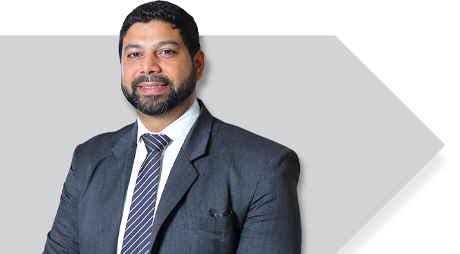
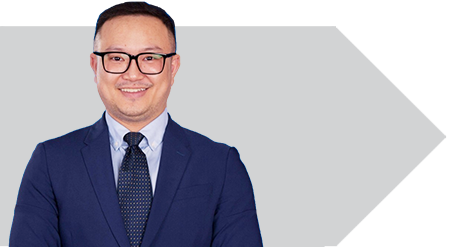
fix 21/3

diff --git a/source/index_vn.html b/source/index_vn.html
@@ -47,7 +47,7 @@
                 <td>&nbsp;</td>
                 <td style="margin: 0px; padding: 0px; font-family: Arial, Helvetica, sans-serif !important; font-size: 14px; line-height: 1.3;"><table width="100%" border="0" cellpadding="0" cellspacing="0" class="chs_body">
                   <tr>
-                    <td style="padding: 0; margin: 0; border: none; line-height: 1.3; font-size: 14px; font-family: Arial, Helvetica, sans-serif !important;"><img src="image/chs_hsbc_logo.png" width="338" height="30" alt="" style="display: block"/></td>
+                    <td style="padding: 0; margin: 0; border: none; line-height: 1.3; font-size: 14px; font-family: Arial, Helvetica, sans-serif !important;"><img src="image/chs_hsbc_logo.png" width="272" height="30" alt="" style="display: block"/></td>
                     <td width="10%" align="right" style="padding: 0; margin: 0; border: none; line-height: 1.3; font-size: 14px; font-family: Arial, Helvetica, sans-serif !important;">&nbsp;</td>
                   </tr>
                 </table></td>
@@ -109,10 +109,10 @@
 										  </table></td>
 								  </tr>
 								  <tr>
-									  <td valign="top" align="center" style="margin: 0; padding: 20px 0; border: none; font-family: Arial, Helvetica, sans-serif !important; font-size: 18px; line-height: 1.3; color: #FFFFFF;">Capital Palace<br />
-29 P. Liễu Giai,<br />
-Ngọc Khánh, Ba Đình,<br />
-Hà Nội</td>
+									  <td valign="top" align="center" style="margin: 0; padding: 20px 0; border: none; font-family: Arial, Helvetica, sans-serif !important; font-size: 18px; line-height: 1.3; color: #FFFFFF;">Khách sạn Lotte Hà Nội<br />
+Số 54, phố Liễu Giai,<br />
+phường Cống Vị,<br />
+quận Ba Đình, Hà Nội</td>
 								  </tr>
 								  <tr>
 									  <td valign="top" align="left" style="margin: 0; padding: 0; border: none; font-family: Arial, Helvetica, sans-serif !important; font-size: 14px; line-height: 1.3;"><table width="100%" border="0" cellspacing="0" cellpadding="0">
@@ -179,10 +179,11 @@ từ đại diện HSBC Premier</td>
 							  <td style="margin: 0; padding: 10px 0 0 0; border: none; font-family: Arial, Helvetica, sans-serif !important; font-size: 14px; line-height: 1.3; color: #000000;"><table width="100%" border="0" cellpadding="0" cellspacing="0" class="chs_body">
 								  <tr>
 									  <td width="250" align="left" style="margin: 0; padding: 0; border: none; font-family: Arial, Helvetica, sans-serif !important; font-size: 14px; line-height: 1.3; color: #000000;"><img src="image/chs_box_4.png" width="230" height="auto" alt="" style="display:block"/></td>
-									  <td style="margin: 0; padding: 0; border: none; font-family: Arial, Helvetica, sans-serif !important; font-size: 16px; line-height: 1.3; color: #FFFFFF;"><strong>Ông Pramoth Rajendran</strong><br />
-Giám đốc khối Dịch vụ<br />
-Quản lý Tài sản và Tài chính<br />
-Cá nhân, HSBC Việt Nam</td>
+									  <td style="margin: 0; padding: 0; border: none; font-family: Arial, Helvetica, sans-serif !important; font-size: 16px; line-height: 1.3; color: #FFFFFF;"><strong>Ông Nguyễn Thái Hoàng</strong><br />
+Giám đốc khu vực miền Bắc,<br />
+khối Dịch vụ Quản lý Tài sản<br />
+và Tài chính Cá nhân,<br />
+HSBC Việt Nam</td>
 								  </tr>
 								  </table></td>
 						  </tr>
@@ -224,13 +225,13 @@ Cá nhân, HSBC Việt Nam</td>
 									  <td width="250" align="left" valign="middle" bgcolor="#FFFFFF" style="margin: 0; padding: 0; border: none; font-family: Arial, Helvetica, sans-serif !important; font-size: 14px; line-height: 1.3; color: #000000;"><img src="image/chs_box_6.png" width="230" height="auto" alt="" style="display:block"/></td>
 									  <td bgcolor="#FFFFFF" valign="middle" style="margin: 0; padding: 0; border: none; font-family: Arial, Helvetica, sans-serif !important; font-size: 16px; line-height: 1.3; color: #000000;"><table width="100%" border="0" cellpadding="0" cellspacing="0" class="chs_body">
 										  <tr>
-											  <td bgcolor="#FFFFFF" valign="middle" style="margin: 0; padding: 0 28px 0 0; border: none; font-family: Arial, Helvetica, sans-serif !important; font-size: 16px; line-height: 1.3; color: #000000;"><strong>Dịch vụ Ngân Hàng Ưu Tiên HSBC Premier kết nối toàn cầu và hoạch định tài chính cho cuộc sống thịnh vượng</strong></td>
+											  <td bgcolor="#FFFFFF" valign="middle" style="margin: 0; padding: 0 28px 0 0; border: none; font-family: Arial, Helvetica, sans-serif !important; font-size: 16px; line-height: 1.3; color: #DB0011;"><strong>Dịch vụ Ngân Hàng Ưu Tiên HSBC Premier kết nối toàn cầu và hoạch định tài chính cho cuộc sống thịnh vượng</strong></td>
 										  </tr>
 										  <tr>
 											  <td bgcolor="#FFFFFF" valign="middle" style="margin: 0; padding: 0; bordernone; font-family: Arial, Helvetica, sans-serif !important; font-size: 16px; line-height: 1.3; color: #000000;">&nbsp;</td>
 										  </tr>
 										  <tr>
-											  <td bgcolor="#FFFFFF" valign="middle" style="margin: 0; padding: 0 28px 0 10px; border-left: 4px solid #d2d3d4; font-family: Arial, Helvetica, sans-serif !important; font-size: 16px; line-height: 1.3; color: #000000;"><strong>Ông Quán Ngọc Tuấn</strong><br />
+											  <td bgcolor="#FFFFFF" valign="middle" style="margin: 0; padding: 0 28px 0 0; border: none; font-family: Arial, Helvetica, sans-serif !important; font-size: 16px; line-height: 1.3; color: #000000;"><strong>Ông Quán Ngọc Tuấn</strong><br />
 Giám đốc chi nhánh Hà Nội, khối Dịch vụ Quản lý Tài sản và Tài chính Cá nhân, HSBC Việt Nam</td>
 										  </tr>
 										  </table></td>
@@ -255,13 +256,13 @@ Giám đốc chi nhánh Hà Nội, khối Dịch vụ Quản lý Tài sản và 
 											  <td bgcolor="#FFFFFF" valign="middle" style="margin: 0; padding: 0 0 5px 0; border: none; font-family: Arial, Helvetica, sans-serif !important; font-size: 16px; line-height: 1.3; color: #000000;"><strong>Tổng quan tình hình kinh tế Việt Nam và triển vọng 2023</strong></td>
 										  </tr>
 										  <tr>
-											  <td bgcolor="#FFFFFF" valign="middle" style="margin: 0; padding: 5px 0 0 0; border-top: 1px solid #d2d3d4; font-family: Arial, Helvetica, sans-serif !important; font-size: 16px; line-height: 1.3; color: #000000;"><strong>Đánh giá các kênh đầu tư và chiến lược phân bổ tài sản</strong></td>
+											  <td bgcolor="#FFFFFF" valign="middle" style="margin: 0; padding: 5px 0 0 0; border: none; font-family: Arial, Helvetica, sans-serif !important; font-size: 16px; line-height: 1.3; color: #000000;"><strong>Đánh giá các kênh đầu tư và chiến lược phân bổ tài sản</strong></td>
 										  </tr>
 										  <tr>
 											  <td bgcolor="#FFFFFF" valign="middle" style="margin: 0; padding: 0; bordernone; font-family: Arial, Helvetica, sans-serif !important; font-size: 16px; line-height: 1.3; color: #000000;">&nbsp;</td>
 										  </tr>
 										  <tr>
-											  <td bgcolor="#FFFFFF" valign="middle" style="margin: 0; padding: 0 0 0 10px; border-left: 4px solid #d2d3d4; font-family: Arial, Helvetica, sans-serif !important; font-size: 16px; line-height: 1.3; color: #000000;"><strong>Ông Đinh Đức Minh</strong><br />
+											  <td bgcolor="#FFFFFF" valign="middle" style="margin: 0; padding: 0; border: none; font-family: Arial, Helvetica, sans-serif !important; font-size: 16px; line-height: 1.3; color: #000000;"><strong>Ông Đinh Đức Minh</strong><br />
 Giám đốc đầu tư, Quỹ đầu tư cổ phiếu Hưng Thịnh Vinawealth (VEOF), VinaCapital</td>
 										  </tr>
 										  </table></td>
